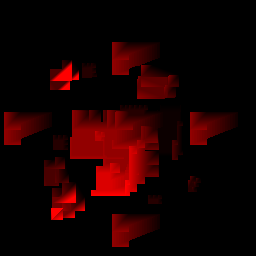
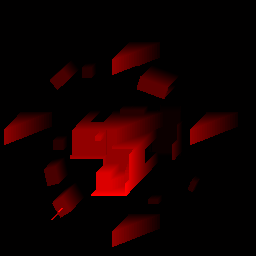
现在的表现感觉还不错

diff --git a/Assets/ShadowTest/Custom/GenerateMapHeightTex.cs b/Assets/ShadowTest/Custom/GenerateMapHeightTex.cs
@@ -25,6 +25,9 @@ namespace ShadowTest.Custom {
         [Header("保存路径(从'Assets/'开始)")]
         public string path;
         
+        [Header("检查点是否在三角形中的容差(出现裂缝是可以适当增大)")] 
+        public float checkInInsideTriangleTolerance = 0.001f;
+        
         [Header("固定影子(灯光)方向")]
         public bool fixedShadowDir;
         public float3 shadowDir = Vector3.down;
@@ -315,9 +318,11 @@ namespace ShadowTest.Custom {
                 Left = mapBoundary.Left,
                 Bottom = mapBoundary.Bottom,
                 Back = mapBoundary.Back,
+                ConvertBottom = convertMapBoundary.Bottom,
                 CurHeightArray = curHeightArray,
                 ShadowMatrix = shadowMatrix,
-                InvShadowMatrix = invShadowMatrix
+                InvShadowMatrix = invShadowMatrix,
+                CheckInInsideTriangleTolerance = checkInInsideTriangleTolerance
             };
             var calculateHeightHandle = calculateHeightJob.Schedule(pixelCount, InnerLoopBatchCount);
             calculateHeightHandle.Complete();
@@ -338,7 +343,7 @@ namespace ShadowTest.Custom {
                     HeightOffsetSinMax = heightOffsetSinMax,
                     StepX = stepX,
                     StepY = stepY,
-                    Bottom = convertMapBoundary.Bottom,
+                    ConvertBottom = convertMapBoundary.Bottom,
                     CurOffsetHeightArray = curOffsetHeightArray,
                 };
                 var calculateOffsetHeightHandle = calculateOffsetHeightJob.Schedule(pixelCount, InnerLoopBatchCount);
@@ -453,19 +458,11 @@ namespace ShadowTest.Custom {
                     WorldPos3 = meshInfoVo.MeshWordPos3
                 };
 
-                if(ChangeShadowDir) {
-                    /*triangleInfo.Vertices1 = math.mul(meshInfoVo.MeshWordPos1, ShadowMatrix);
-                    triangleInfo.Vertices2 = math.mul(meshInfoVo.MeshWordPos2, ShadowMatrix);
-                    triangleInfo.Vertices3 = math.mul(meshInfoVo.MeshWordPos3, ShadowMatrix);*/
-                    triangleInfo.ConvertWorldPos1 = math.mul(ShadowMatrix, meshInfoVo.MeshWordPos1);
-                    triangleInfo.ConvertWorldPos2 = math.mul(ShadowMatrix, meshInfoVo.MeshWordPos2);
-                    triangleInfo.ConvertWorldPos3 = math.mul(ShadowMatrix, meshInfoVo.MeshWordPos3);
-                    triangleInfo.Normal = math.normalize(math.cross(triangleInfo.ConvertWorldPos2 - triangleInfo.ConvertWorldPos1,
-                        triangleInfo.ConvertWorldPos3 - triangleInfo.ConvertWorldPos2));
-                } else {
-                    triangleInfo.Normal = math.normalize(math.cross(triangleInfo.WorldPos2 - triangleInfo.WorldPos1,
-                        triangleInfo.WorldPos3 - triangleInfo.WorldPos2));
-                }
+                triangleInfo.ConvertWorldPos1 = math.mul(ShadowMatrix, meshInfoVo.MeshWordPos1);
+                triangleInfo.ConvertWorldPos2 = math.mul(ShadowMatrix, meshInfoVo.MeshWordPos2);
+                triangleInfo.ConvertWorldPos3 = math.mul(ShadowMatrix, meshInfoVo.MeshWordPos3);
+                triangleInfo.Normal = math.normalizesafe(math.cross(triangleInfo.ConvertWorldPos2 - triangleInfo.ConvertWorldPos1,
+                    triangleInfo.ConvertWorldPos3 - triangleInfo.ConvertWorldPos2));
 
                 CheckBounds(ref triangleInfo.Boundary, triangleInfo.WorldPos1);
                 CheckBounds(ref triangleInfo.Boundary, triangleInfo.WorldPos2);
@@ -503,9 +500,12 @@ namespace ShadowTest.Custom {
             [ReadOnly] public float Left;
             [ReadOnly] public float Back;
             [ReadOnly] public float Bottom;
+            [ReadOnly] public float ConvertBottom;
             
             [ReadOnly] public float3x3 ShadowMatrix;
             [ReadOnly] public float3x3 InvShadowMatrix;
+
+            [ReadOnly] public float CheckInInsideTriangleTolerance;
 
             public NativeArray<TriangleHeightInfo> CurHeightArray;
 
@@ -539,12 +539,21 @@ namespace ShadowTest.Custom {
                     }
 
                     // 检测是否在三角形内
+                    if(!IsInsideTriangleMy(curConvertPoint,
+                           new float3(triangleInfo.ConvertWorldPos1.x, curConvertPoint.y, triangleInfo.ConvertWorldPos1.z),
+                           new float3(triangleInfo.ConvertWorldPos2.x, curConvertPoint.y, triangleInfo.ConvertWorldPos2.z),
+                           new float3(triangleInfo.ConvertWorldPos3.x, curConvertPoint.y, triangleInfo.ConvertWorldPos3.z),
+                           CheckInInsideTriangleTolerance)) {
+                        continue;
+                    }
+                    
+                    /*// 检测是否在三角形内
                     if(!IsInsideTriangle(curConvertPoint, 
                            new float3(triangleInfo.ConvertWorldPos1.x, curConvertPoint.y, triangleInfo.ConvertWorldPos1.z), 
                            new float3(triangleInfo.ConvertWorldPos2.x, curConvertPoint.y, triangleInfo.ConvertWorldPos2.z), 
                            new float3(triangleInfo.ConvertWorldPos3.x, curConvertPoint.y, triangleInfo.ConvertWorldPos3.z))) {
                         continue;
-                    }
+                    }*/
                     
                     /*// 检测是否在三角形内
                     if(!IsInsideTriangle(new float2(curConvertPoint.x, curConvertPoint.z),
@@ -575,7 +584,7 @@ namespace ShadowTest.Custom {
                     }
                     //tempPoint = math.mul(InvShadowMatrix, tempPoint);
                     var tempH = -((curConvertPoint.x - tempPoint.x) * triangleInfo.Normal.x + (curConvertPoint.z - tempPoint.z) * triangleInfo.Normal.z) /
-                        triangleInfo.Normal.y + tempPoint.y - Bottom;
+                        triangleInfo.Normal.y + tempPoint.y - ConvertBottom;
 
                     if(curHeightArray.Height < tempH) {
                         curHeightArray.Height = tempH;
@@ -608,7 +617,7 @@ namespace ShadowTest.Custom {
             [ReadOnly] public float StepX;
             [ReadOnly] public float StepY;
 
-            [ReadOnly] public float Bottom;
+            [ReadOnly] public float ConvertBottom;
 
             public NativeArray<float> CurOffsetHeightArray;
 
@@ -617,7 +626,7 @@ namespace ShadowTest.Custom {
                 var xIndex = index % ResolutionX;
                 var yIndex = index / ResolutionX;
 
-                CurOffsetHeightArray[index] = CalculateCurOffset(index, xIndex, yIndex, CurHeightArray, StepX, StepY, Bottom, ResolutionX, ResolutionY, CheckLength, CheckHeightOffsetLayer, HeightOffsetSinMin, HeightOffsetSinMax, HeightOffset);
+                CurOffsetHeightArray[index] = CalculateCurOffset(index, xIndex, yIndex, CurHeightArray, StepX, StepY, ConvertBottom, ResolutionX, ResolutionY, CheckLength, CheckHeightOffsetLayer, HeightOffsetSinMin, HeightOffsetSinMax, HeightOffset);
             }
         }
 
@@ -735,12 +744,31 @@ namespace ShadowTest.Custom {
                 front = checkFront;
             }
         }
+        
+        /// <summary>
+        /// 是否在三角形内
+        /// </summary>
+        private static bool IsInsideTriangleMy(float3 point, float3 vertices1, float3 vertices2, float3 vertices3, float tolerance = 0.001f) {
+            var pa = vertices1 - point;
+            var pb = vertices2 - point;
+            var pc = vertices3 - point;
+
+            var pab = math.cross(pa, pb);
+            var pbc = math.cross(pb, pc);
+            var pca = math.cross(pc, pa);
+
+            var d1 = math.dot(pab, pbc);
+            var d2 = math.dot(pab, pca);
+            var d3 = math.dot(pbc, pca);
+
+            return d1 >= -tolerance && d2 >= -tolerance && d3 >= -tolerance;
+        }
 
         /// <summary>
         /// 是否在三角形内
         /// </summary>
         private static bool IsInsideTriangle(float3 point, float3 vertices1, float3 vertices2, float3 vertices3) {
-            var v12 = vertices2 - vertices1;
+            /*var v12 = vertices2 - vertices1;
             var v23 = vertices3 - vertices2;
             var v31 = vertices1 - vertices3;
             var v13 = vertices3 - vertices1;
@@ -751,7 +779,26 @@ namespace ShadowTest.Custom {
             double dot23 = math.dot(v23, normal);
             double dot31 = math.dot(v31, normal);
 
-            return (dot12 >= 0 && dot23 >= 0 && dot31 >= 0) || (dot12 <= 0 && dot23 <= 0 && dot31 <= 0);
+            return (dot12 >= 0 && dot23 >= 0 && dot31 >= 0) || (dot12 <= 0 && dot23 <= 0 && dot31 <= 0);*/
+            return SameSide(vertices1, vertices2, vertices3, point) &&
+                   SameSide(vertices2, vertices3, vertices1, point) &&
+                   SameSide(vertices3, vertices1, vertices2, point);
+        }
+        
+        // Determine whether two vectors v1 and v2 point to the same direction
+        // v1 = Cross(AB, AC)
+        // v2 = Cross(AB, AP)
+        private static bool SameSide(float3 A, float3 B, float3 C, float3 P)
+        {
+            float3 AB = B - A ;
+            float3 AC = C - A ;
+            float3 AP = P - A ;
+
+            float3 v1 = math.normalizesafe(math.cross(AB, AC));
+            float3 v2 = math.normalizesafe(math.cross(AB, AP));
+
+            // v1 and v2 should point to the same direction
+            return math.dot(v1, v2) >= 0;
         }
         
         /// <summary>
@@ -789,7 +836,7 @@ namespace ShadowTest.Custom {
                     /*if(product1 < 0 && product1 > -0.01 || product2 < 0 && product2 > -0.01 || product3 < 0 && product3 > -0.01) {
                         Debug.Log($"{o}_{p1}_{p2}_{p3}:每次的结果：{product1}_{product2}_{product3}");
                     }*/
-                    return product1 > -0.01 && product2 > -0.01 && product3 > -0.01;
+                    return product1 >= -0.001 && product2 >= -0.001 && product3 >= -0.001;
                 }
                 (p2, p3) = (p3, p2);
             }

diff --git a/Assets/ShadowTest/Custom/Editor/GenerateMapHeightTexInspector.cs b/Assets/ShadowTest/Custom/Editor/GenerateMapHeightTexInspector.cs
@@ -28,6 +28,8 @@ namespace ShadowTest.Custom.Editor {
                     curNeedShow = !ReferenceEquals(_generateMapHeightTex.mapGo, null);
                 } else if(iterator.name == "fixedShadowDir") {
                     curNeedShow = _generateMapHeightTex.fixedShadowDir;
+                } else if(iterator.name == "fixedShadowDir") {
+                    curNeedShow = _generateMapHeightTex.fixedShadowDir;
                 } else if(iterator.name == "needLimitLeft") {
                     curNeedShow = _generateMapHeightTex.needLimitLeft;
                 } else if(iterator.name == "needLimitRight") {
